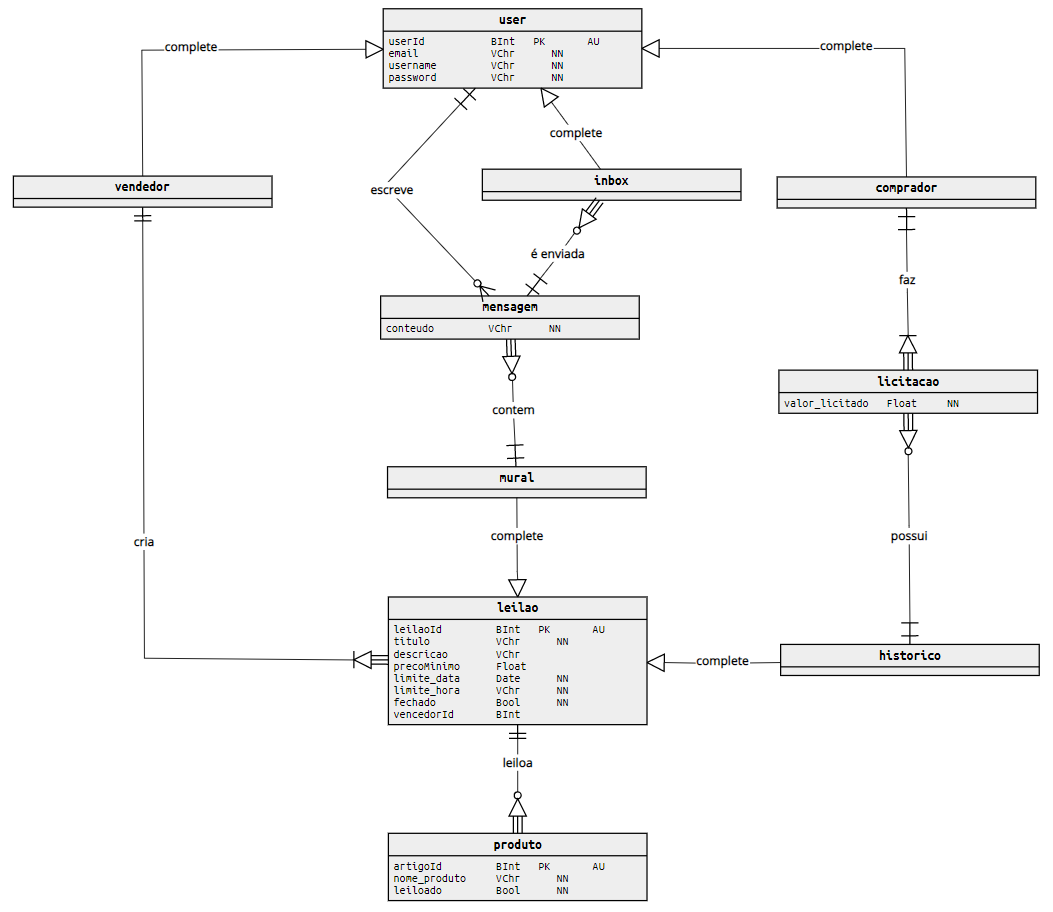
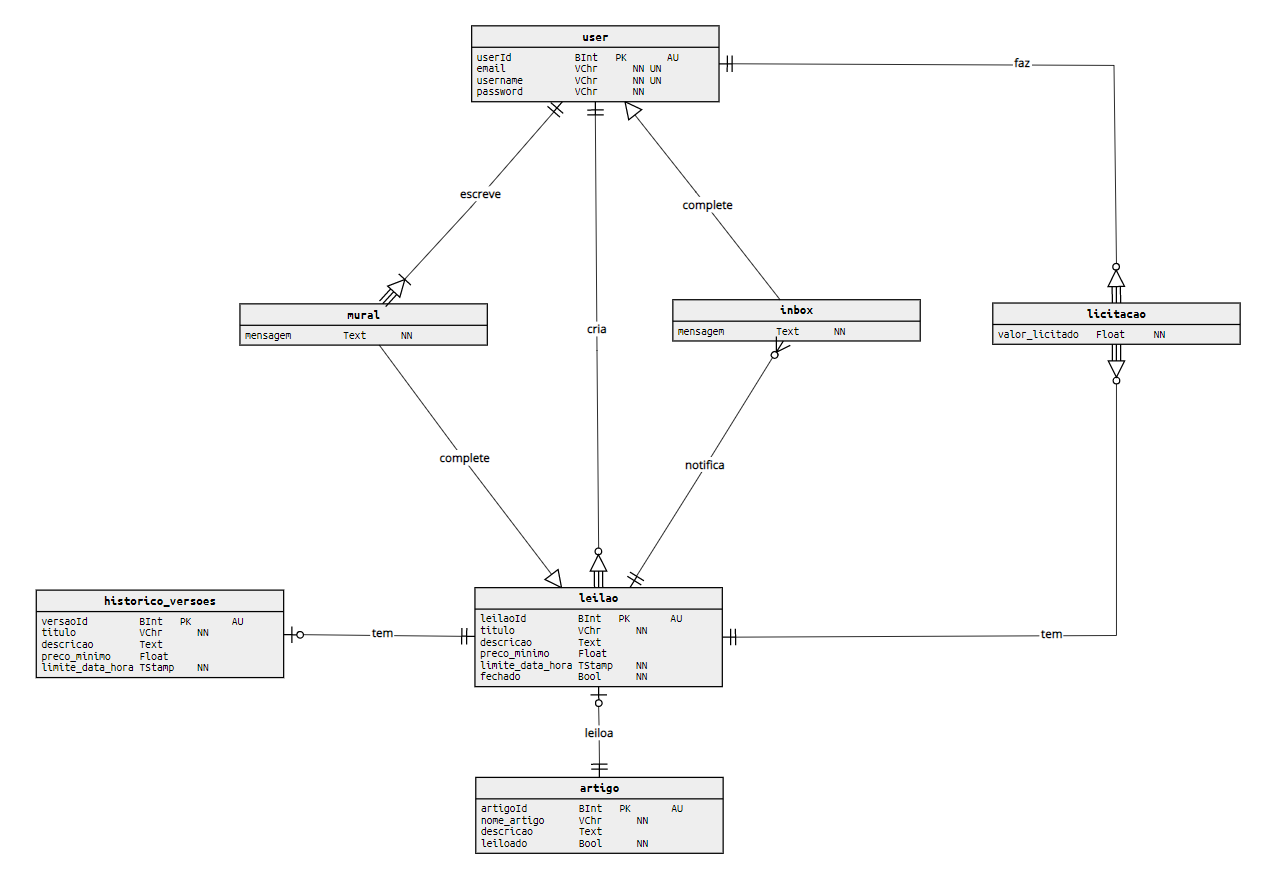
meta 1 done

diff --git a/README.md b/README.md
@@ -21,31 +21,37 @@ ___
 Below we explain how and why we built this RE structure
 
 ![Relationship Entity Diagram](screenshots/Screenshot_ERDiagram.png)
+![Relationship Entity Diagram](screenshots/Screenshot_RDM.png)
 
 :one: Users
 
 We started building users subsystem. 
 
-So we decided to separate `buyers` and `sellers` because both are able to do different things, a `seller`, for example, is able to create several auctions (at leasts one, otherwise he isn't even considered a seller), by other side, `buyer` can bid several auctions (at least one too, for the same reason as the previous one). However, they still being descended entities from `user`, which means a `user` can be simultaneously a `seller` and a `buyer`, that's why, plus redundancy avoidance, whe used a `complete inheritance`.
-
+So we decided to create one single entity `users` because both are able to create and bid several auctions. The only problem this may cause (and must be fixed in the "coding part") is when an `user` tries to bid his own auction (he must be forbidden to do it).
 
 :two: Auction
 
 After that, we implemented `auction` and its involved entities.
 
-An `auction` is created by one and only one `seller` and must have a biding `product` associated. In other words, an `auction` existance doesn't make sense without a `product`, so `product` is a weak entity.
+An `auction` is created by one and only one `user` and must have a `product` associated, an `version_history` to stored the previous versions of that `auction` and a `mural` (we'll approach this one in the next topics).
+
+The `version_history` has several `auctions` with the same ID, so it has to have its own ID to identify each version, that's why it is not a weak entity, compared to `auction`.
 
 :three: Biddings
 
-Associated to each `auction`, there's a bidding `history`. Is here where every `biddings` are stored and can be consulted later (even there's no one).
+Associated to each `auction`, there's a bidding history. Is here where every `biddings` are stored and can be consulted later (even there's no one).
 
-Each `bidding` contains the propused value, the `buyer` ID and the corresponding `history` ID, which belongs to a certain `auction`.
+Each `bidding` contains the propused value, the buyer ID and the corresponding `auction` ID, which belongs to a certain `user`.
 
 :four: Messages & Notifications
 
-One more thing it was proposed, was to build a notification ecosystem relationated to `auctions` and general `users`. 
+One more thing it was proposed, was to build a notification ecosystem relationated to `auctions` and `users`. 
 
-To do that, we decided to firstly create a `mural` where all `users` can post (or not) several `messages`. Besides that, `buyers` who had an overlaid `bid`, had to (once again, or not) receive a `message` (once again, or several) warning them. So we created an `inbox`, which works like a bridge between `users` and `messages` from `auctions`.
+To do that, we decided to firstly create like two communications bridges:
+1. `users` -> `mural` -> `auction`
+1. `auction` -> `inbox` -> `users`
+
+So, `users` have an associated `inbox` (identified by users ID) where several messages can be written by `auctions` (*aka* notifications) and, same way, `auctions` have an associated `mural` (identified by auctions ID) where several messages can be written by `users`.
 
 ___
 ## Database Management :books:
